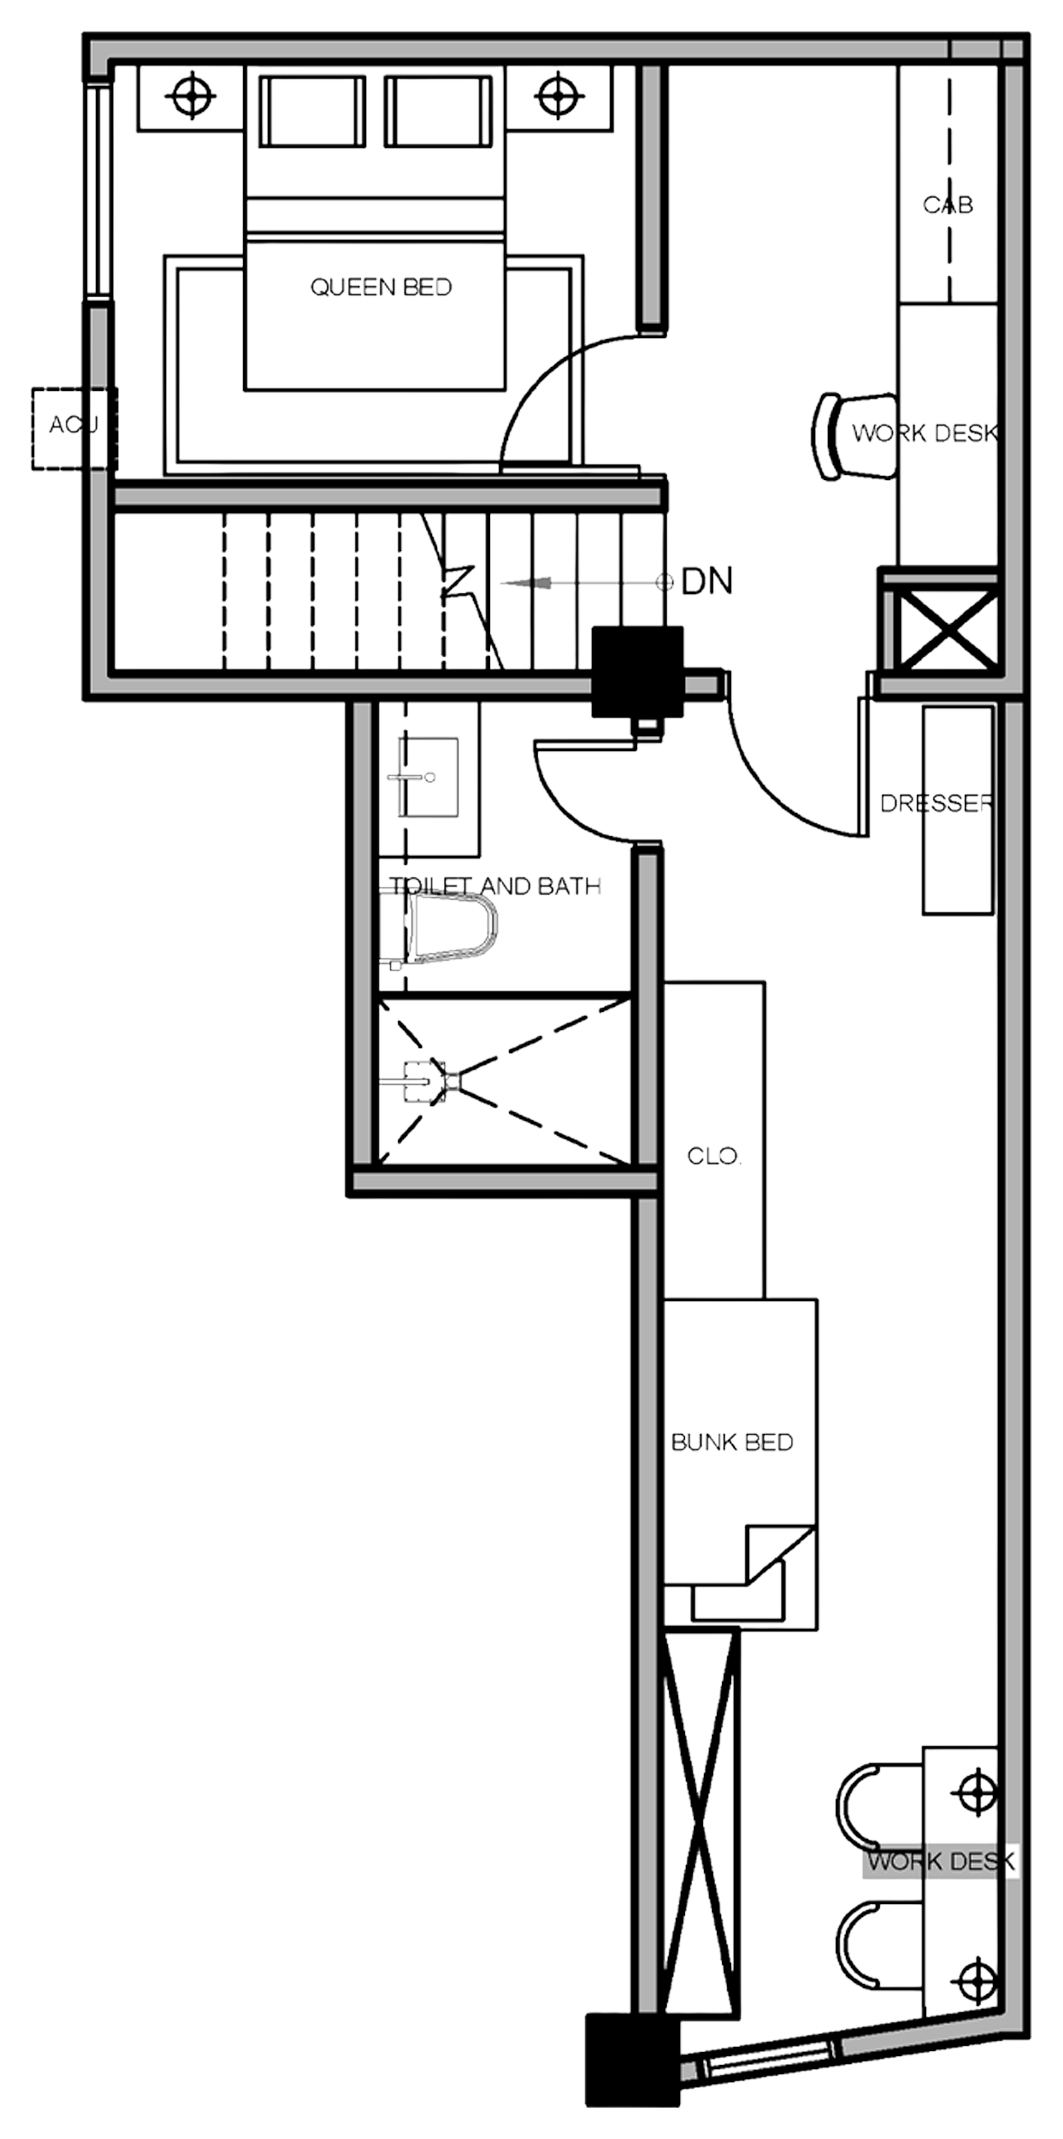
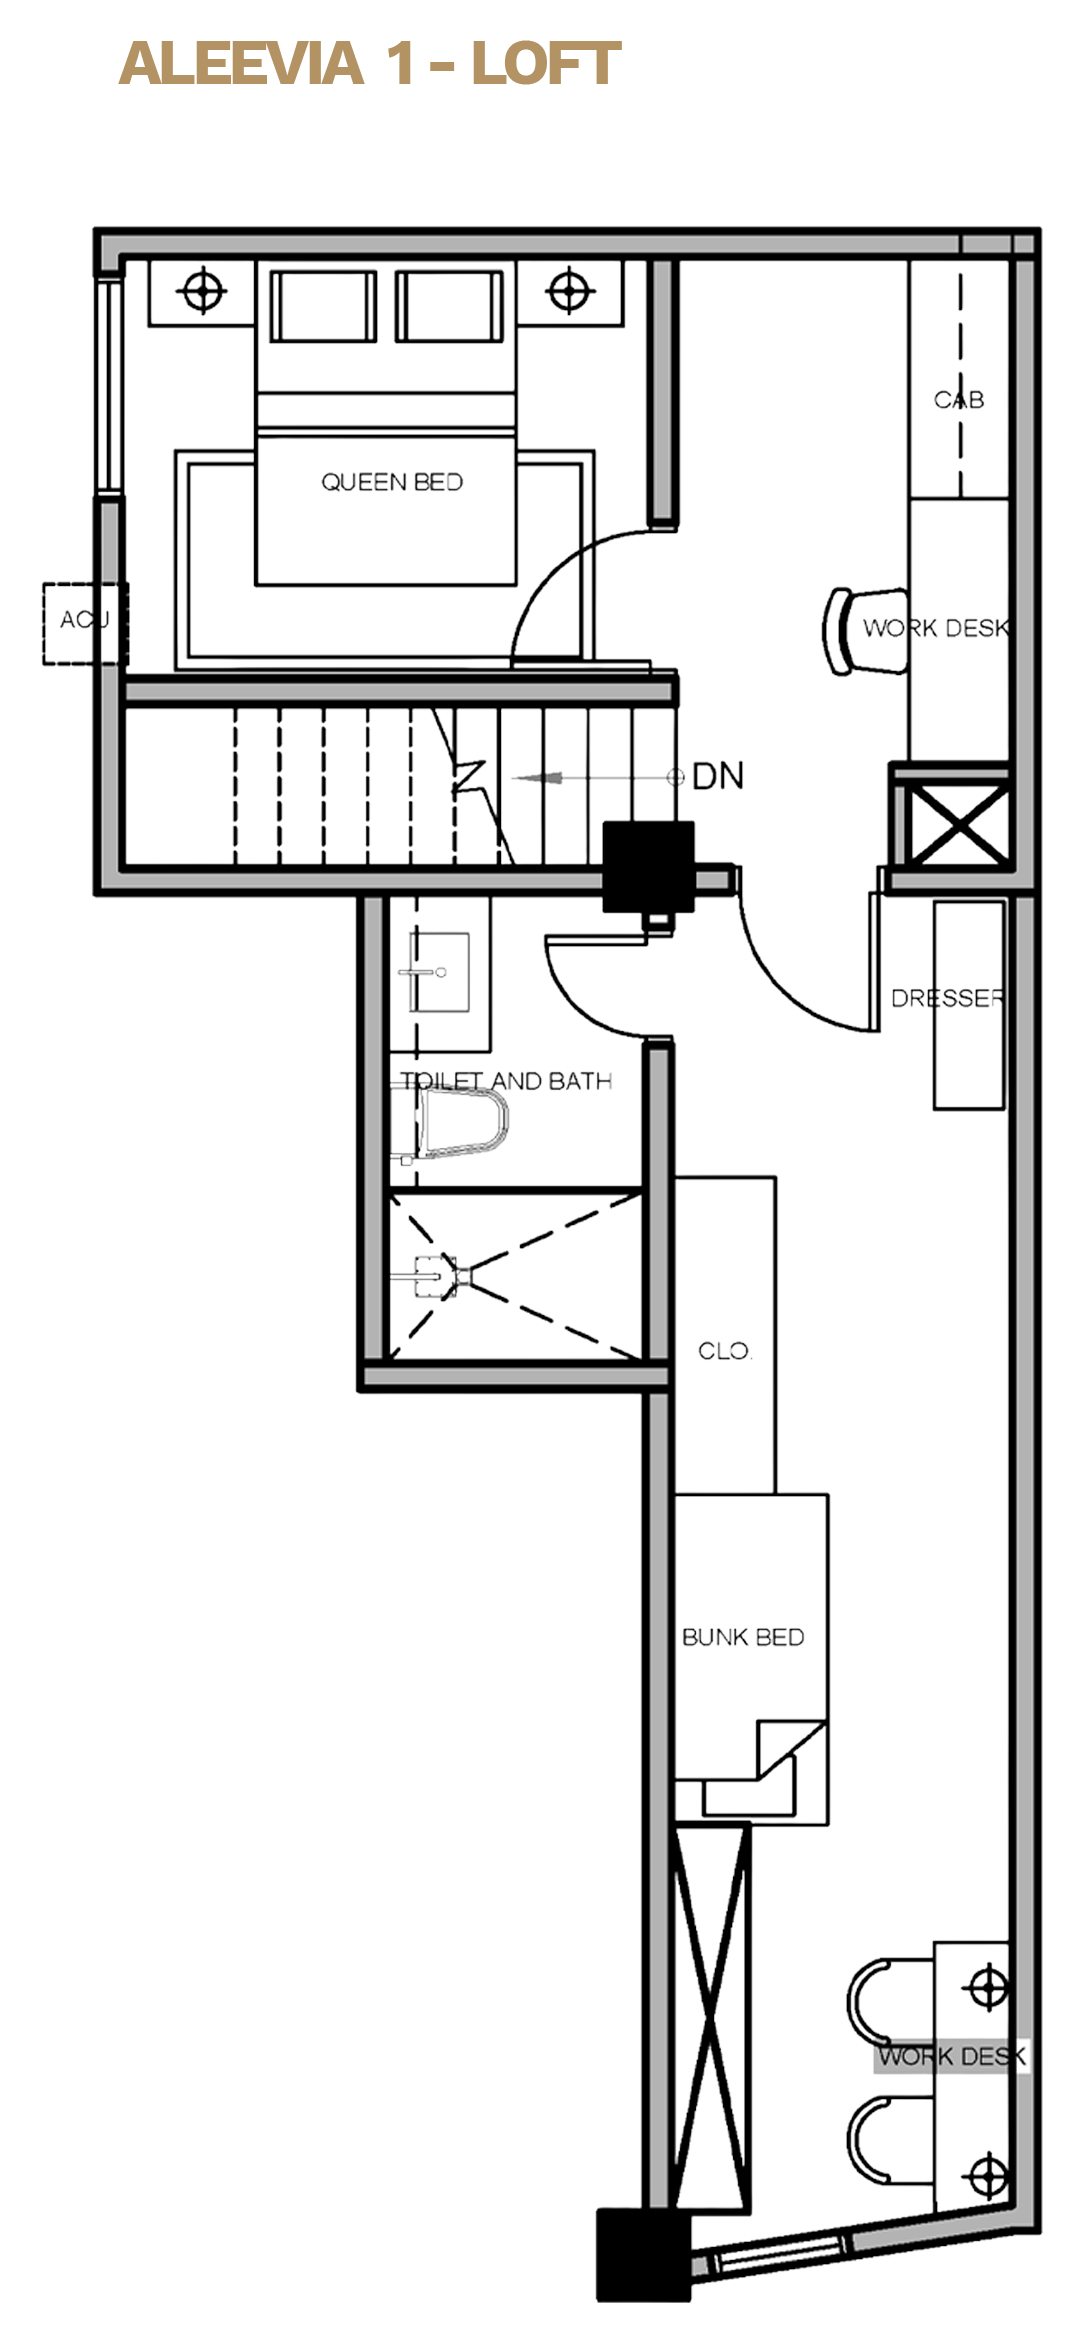
update: official transparent floor plans, 2-Bedroom carousel order, one-line residence switch

Changed region(s): [[0.031, 0.0, 0.9934, 0.9874]]

diff --git a/components/sections/residences.tsx b/components/sections/residences.tsx
@@ -24,7 +24,9 @@ type Unit = {
   specs: string;
   body: string;
   images: { src: string; alt: string }[];
-  floorPlans: { label: string; src: string }[];
+  /** Each plan carries its own gold title, so there is no separate label.
+   *  width/height are the file's real pixels, so the frame keeps its ratio. */
+  floorPlans: { src: string; alt: string; width: number; height: number }[];
 };
 
 const UNITS: Unit[] = [
@@ -50,8 +52,18 @@ const UNITS: Unit[] = [
       },
     ],
     floorPlans: [
-      { label: "Level 1", src: "/assets/floor-plans/unit-1-level-1.png" },
-      { label: "Mezzanine", src: "/assets/floor-plans/unit-1-mezzanine.png" },
+      {
+        src: "/assets/floor-plans/unit-1-level-1.png",
+        alt: "Aleevia 1 floor plan, Level 1",
+        width: 1559,
+        height: 1327,
+      },
+      {
+        src: "/assets/floor-plans/unit-1-mezzanine.png",
+        alt: "Aleevia 1 floor plan, Loft",
+        width: 1083,
+        height: 2343,
+      },
     ],
   },
   {
@@ -84,8 +96,18 @@ const UNITS: Unit[] = [
       },
     ],
     floorPlans: [
-      { label: "Level 1", src: "/assets/floor-plans/unit-7-level-1.png" },
-      { label: "Mezzanine", src: "/assets/floor-plans/unit-7-mezzanine.png" },
+      {
+        src: "/assets/floor-plans/unit-7-level-1.png",
+        alt: "Aleevia 2 floor plan, Level 1",
+        width: 1575,
+        height: 1797,
+      },
+      {
+        src: "/assets/floor-plans/unit-7-mezzanine.png",
+        alt: "Aleevia 2 floor plan, Loft",
+        width: 1853,
+        height: 1984,
+      },
     ],
   },
 ];
@@ -215,7 +237,7 @@ export function Residences() {
             role="tablist"
             aria-label="Choose a residence"
             onKeyDown={onTabKey}
-            className="inline-flex gap-1 rounded-md border border-border bg-card p-1.5"
+            className="flex w-full gap-1 rounded-md border border-border bg-card p-1.5 sm:inline-flex sm:w-auto"
           >
             {UNITS.map((u, index) => (
               <button
@@ -228,7 +250,9 @@ export function Residences() {
                 tabIndex={active === index ? 0 : -1}
                 onClick={() => setActive(index)}
                 className={cn(
-                  "relative px-6 py-3 text-caption font-medium uppercase tracking-label transition-colors duration-300 focus-visible:outline-none focus-visible:ring-2 focus-visible:ring-ring sm:px-10",
+                  // Phones: two equal halves on one line; tighter tracking keeps
+                  // "1-Bedroom" from breaking at its hyphen down to 320px.
+                  "relative flex-1 whitespace-nowrap px-3 py-3 text-caption font-medium uppercase tracking-wide transition-colors duration-300 focus-visible:outline-none focus-visible:ring-2 focus-visible:ring-ring sm:flex-none sm:px-10 sm:tracking-label",
                   active === index
                     ? "text-primary-foreground"
                     : "text-foreground/70 hover:text-foreground",
@@ -284,18 +308,18 @@ export function Residences() {
                   </p>
                   <div className="mt-5 grid grid-cols-1 gap-4 sm:grid-cols-2">
                     {unit.floorPlans.map((plan) => (
+                      // The plans are transparent black line art, so the card
+                      // stays white in both themes to keep the lines readable.
                       <figure
-                        key={plan.label}
-                        className="rounded-md border border-border bg-card p-4"
+                        key={plan.src}
+                        className="rounded-md border border-border bg-white p-4"
                       >
-                        <figcaption className="mb-3 text-caption font-medium uppercase tracking-label text-muted-foreground">
-                          {plan.label}
-                        </figcaption>
                         <Image
                           src={plan.src}
-                          alt={`${unit.name}, ${plan.label} floor plan`}
-                          width={600}
-                          height={600}
+                          alt={plan.alt}
+                          width={plan.width}
+                          height={plan.height}
+                          sizes="(min-width: 1024px) 20vw, (min-width: 640px) 45vw, 100vw"
                           className="h-auto w-full object-contain"
                         />
                       </figure>
